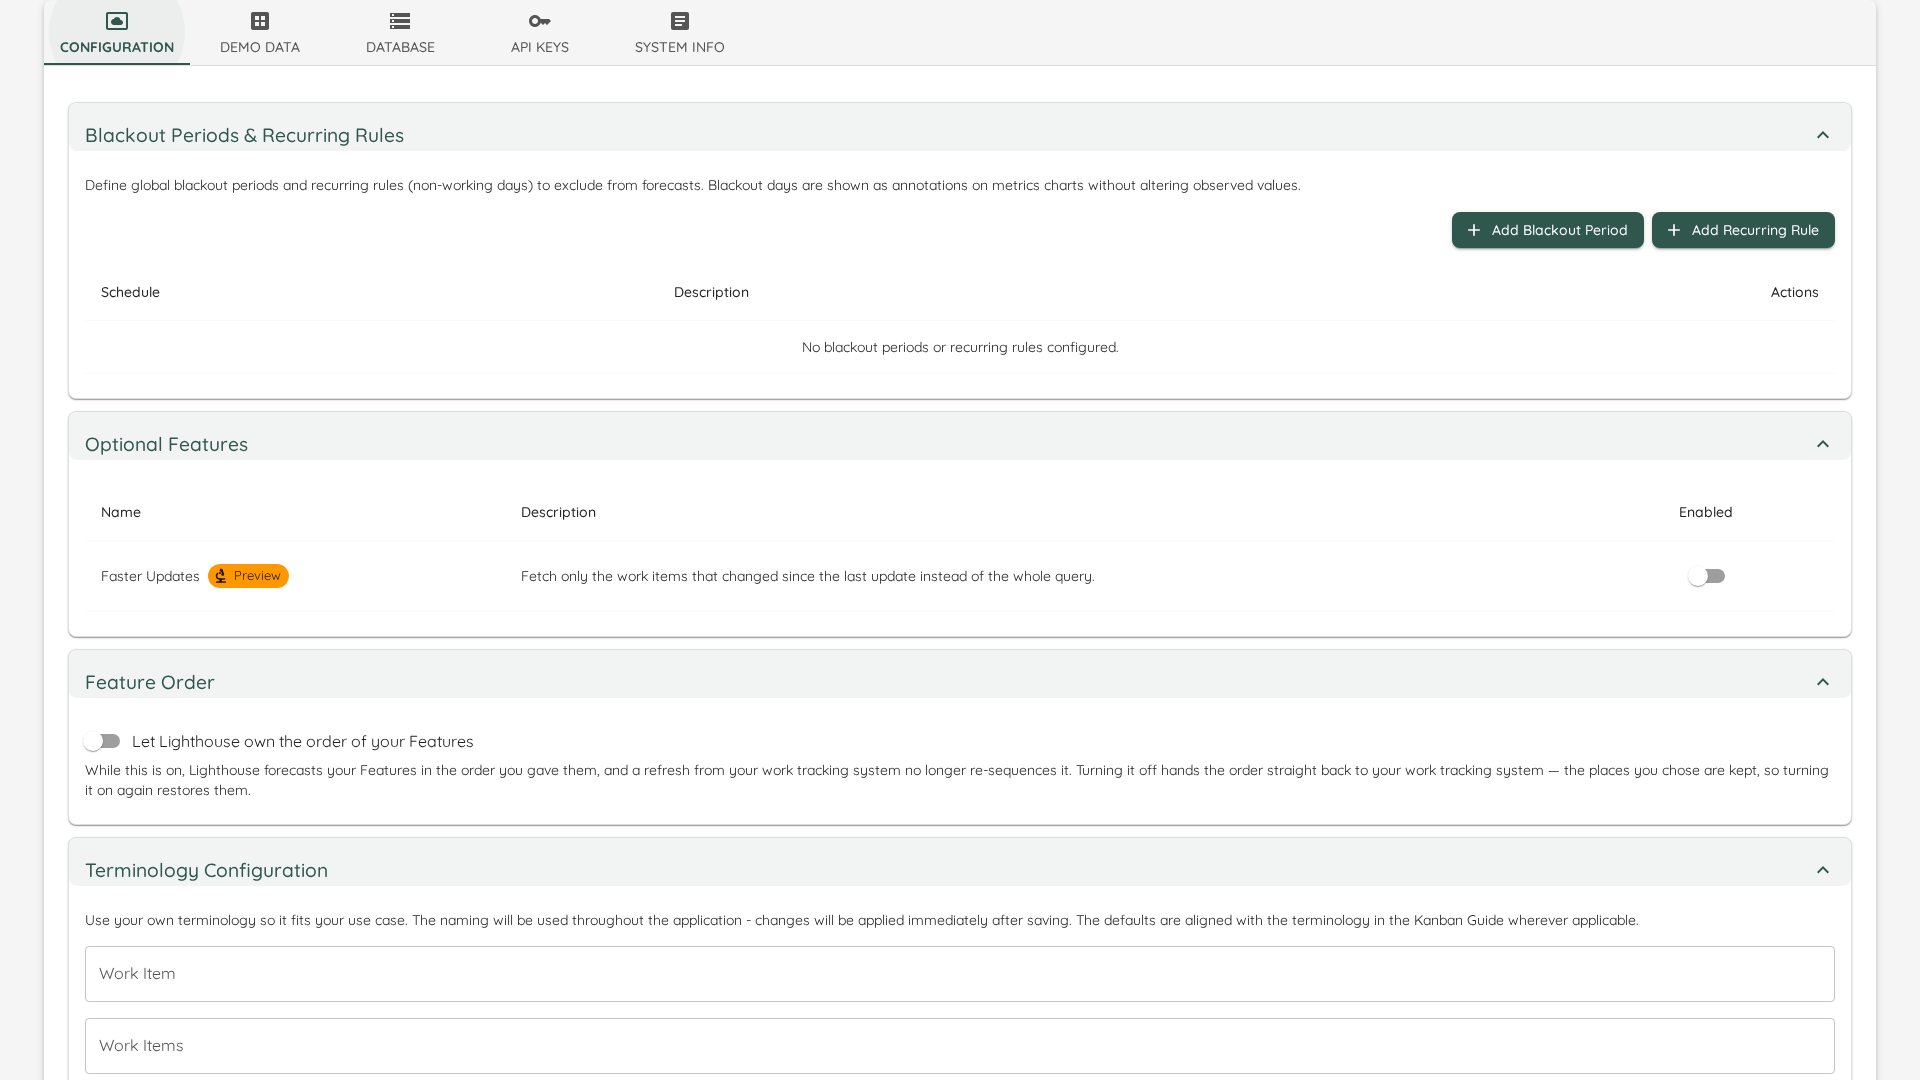
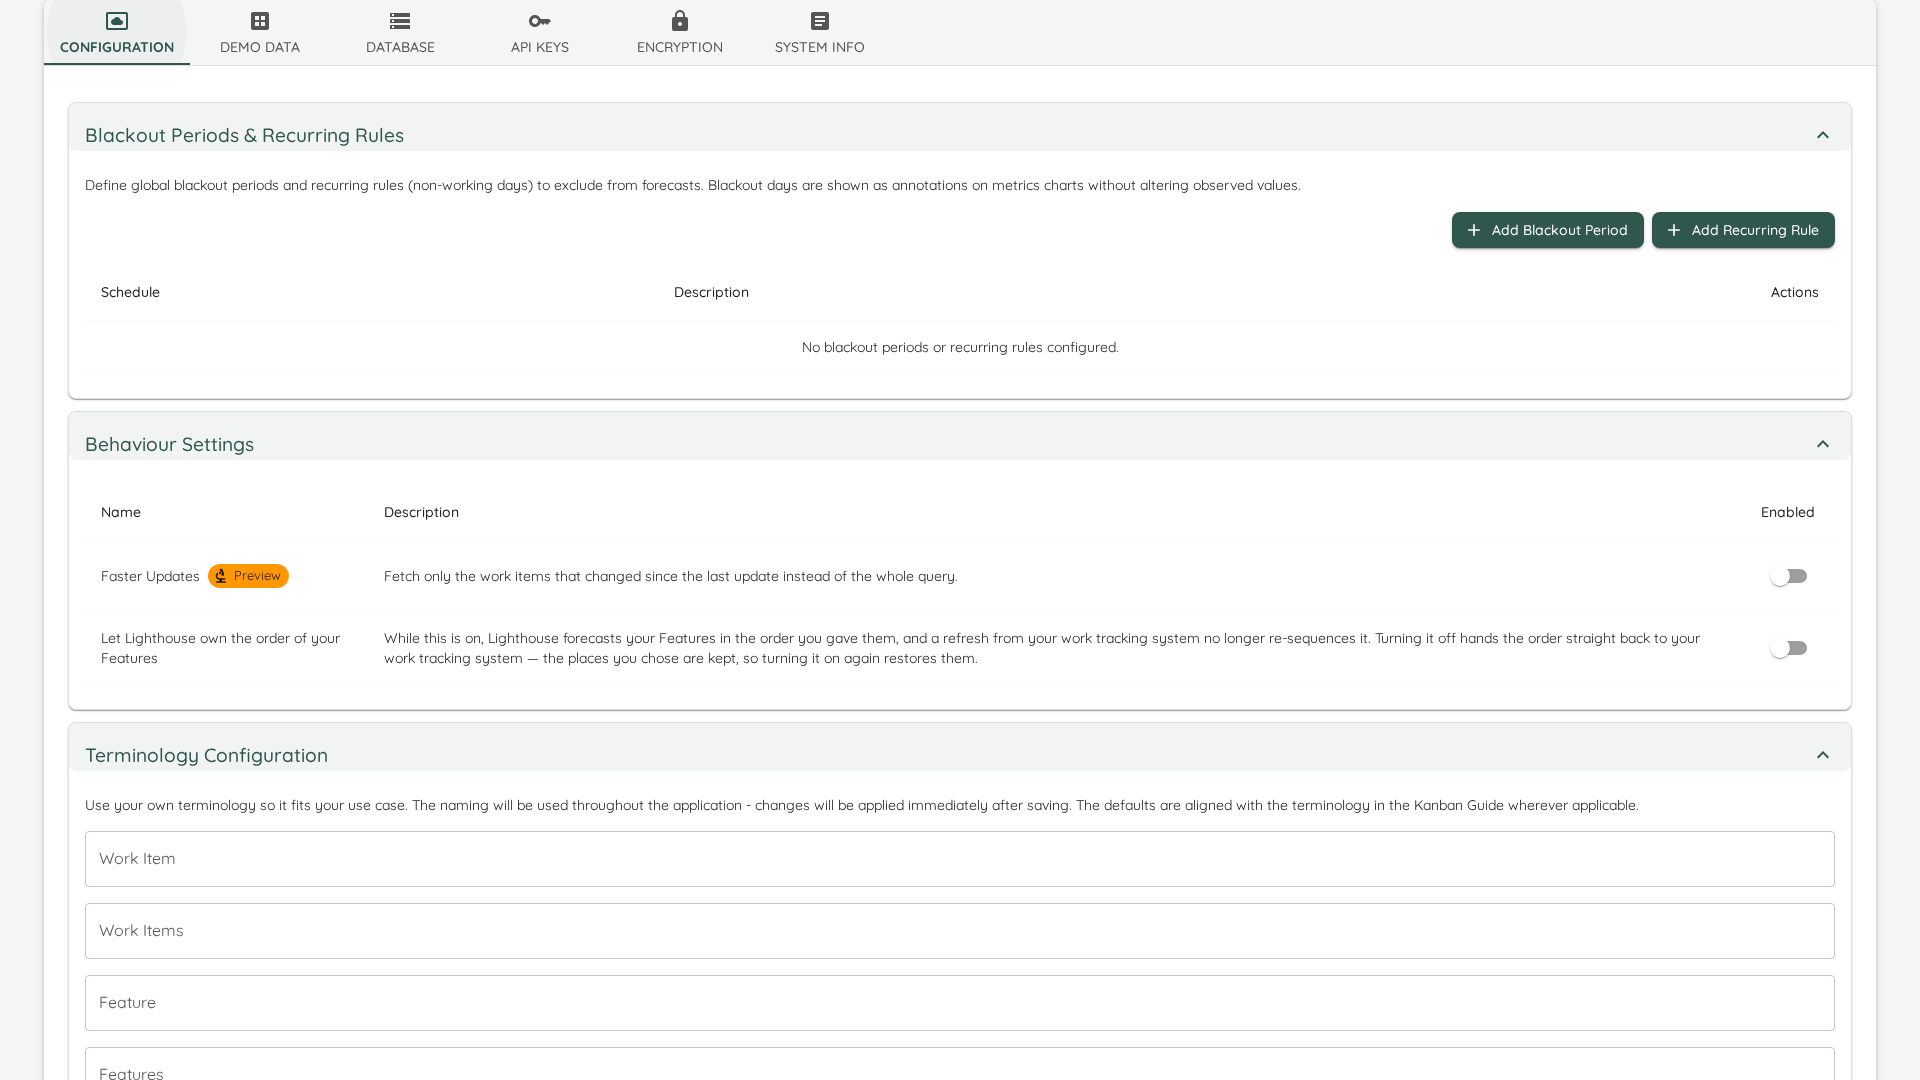
docs(behaviour-settings): one heading in the docs, and the picture that shows it
Step-Id: 02-08
Task-Id: story-5876-behaviour-settings

diff --git a/docs/settings/configuration.md b/docs/settings/configuration.md
@@ -59,15 +59,18 @@ Use a recurring rule for weekends or any regularly repeating closure, and reserv
 {: .note}
 Managing blackout periods and recurring rules requires a [Premium license](../licensing/licensing.html#licensed-features). Existing entries remain active for forecasting and metrics even if a license lapses — only the ability to add, edit, or delete them is gated.
 
-## Optional Features
-Some features might not make sense to be enabled in all situations. And occasionally some new features will be deployed with the latest version of Lighthouse that we deem not ready for general use. In such a case you would find a toggle in the *Optional Features* setting which you can selectively enable or disable.
+## Behaviour Settings
+Some behaviour does not make sense to have on in every situation. And occasionally some new features will be deployed with the latest version of Lighthouse that we deem not ready for general use. Both live in *Behaviour Settings*: one table of instance-wide switches, each with its own row, that you can selectively enable or disable.
 
-![Optional Features](../assets/settings/optionalfeatures.png)
+![Behaviour Settings](../assets/settings/optionalfeatures.png)
 
 Eventually, the Features in preview will be integrated into the regular functionality, and the preview flag will be removed. In rare cases, a preview feature might get removed.
 
 {: .recommendation}
 While preview features should be relatively stable, it can be that they will not work perfectly yet. If you enable them and encounter issues, please let us know about it. We're looking forward to your feedback!
+
+{: .note}
+The rows read in your own words. If you renamed *Feature* under [Terminology Configuration](#terminology-configuration), a row that talks about your Features says your word for them instead of ours.
 
 ### Faster Updates
 
@@ -85,9 +88,7 @@ Turn *Faster Updates* on and an update runs in two steps instead of one: it firs
 {: .note}
 Faster Updates ships as an opt-in and will eventually become the default. Please turn it on and try it out — and if something does not work the way you expect, tell us, so we can improve it before it goes live for everyone.
 
-If you are enabling Lighthouse features for AI clients, MCP, or automation workflows, continue with [AI and Automation](../aiintegration.html). If the target instance requires authentication, create credentials in [API Keys](apikeys.html).
-
-## Feature Order (Premium)
+### Feature Order (Premium)
 By default, Lighthouse forecasts your Features in the order your work tracking system gives them — the rank or backlog order they already carry there. Every refresh re-reads that order, so a rank someone changes in Azure DevOps, Jira, or Linear re-sequences your forecast without anyone on your team deciding it. On connectors that have no meaningful rank at all, such as ServiceNow, the sequence was never yours to begin with.
 
 Turn *Let Lighthouse own the order of your Features* on and Lighthouse takes ownership instead.
@@ -97,7 +98,7 @@ Turn *Let Lighthouse own the order of your Features* on and Lighthouse takes own
 - **The `#` column heading changes to *Manual***, on the [Features page](../features/features.html) and on the Portfolio Feature list, so it is always visible which order you are reading.
 - **Features that arrive later go to the end** and stay there until you move them. They are not announced.
 
-### Turning it back off
+#### Turning it back off
 Turning the switch off hands the order straight back to your work tracking system, immediately and without a refresh. The places you chose are **kept** — turn it on again and they come back, rather than being re-read from the tracker. That makes the switch something you can try on a live instance instead of a decision you have to commit to.
 
 {: .note}
@@ -105,6 +106,8 @@ Owning the order requires a [Premium license](../licensing/licensing.html#licens
 
 {: .recommendation}
 Changing who owns the order changes every forecasted date, because the order is what the simulation draws from. Expect the dates on your Portfolios to be recalculated shortly after you flip the switch either way.
+
+If you are enabling Lighthouse features for AI clients, MCP, or automation workflows, continue with [AI and Automation](../aiintegration.html). If the target instance requires authentication, create credentials in [API Keys](apikeys.html).
 
 ## Terminology Configuration
 Lighthouse allows you to customize the terminology used throughout the application to better align with your organization's language and workflow conventions. This feature helps eliminate confusion by ensuring consistent terminology that matches how your team and organization refers to work items and concepts.
